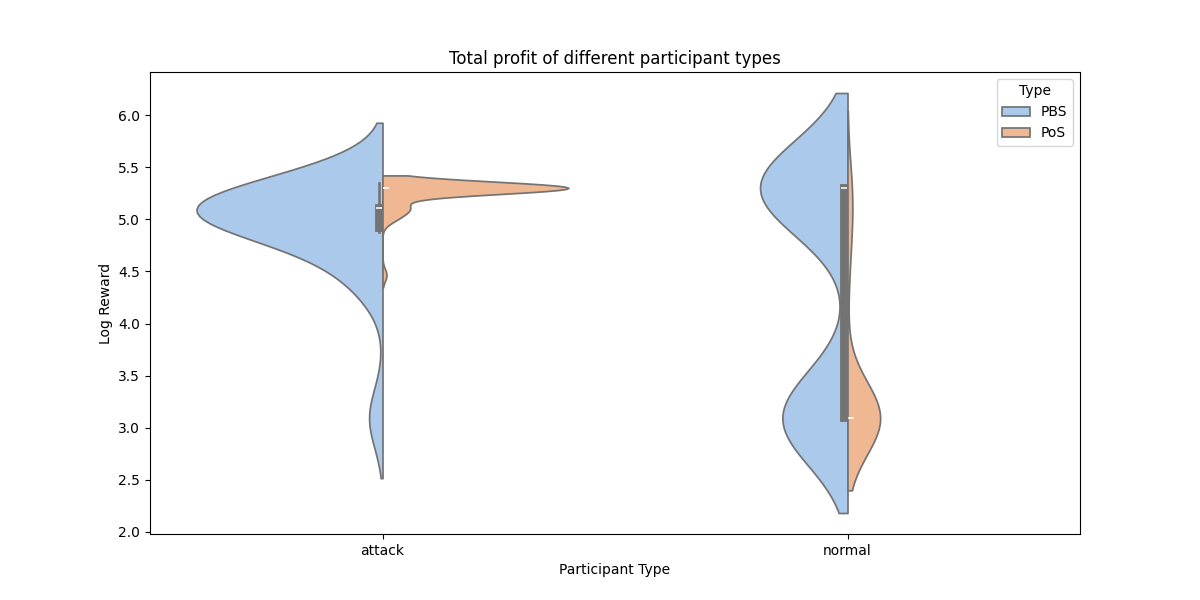
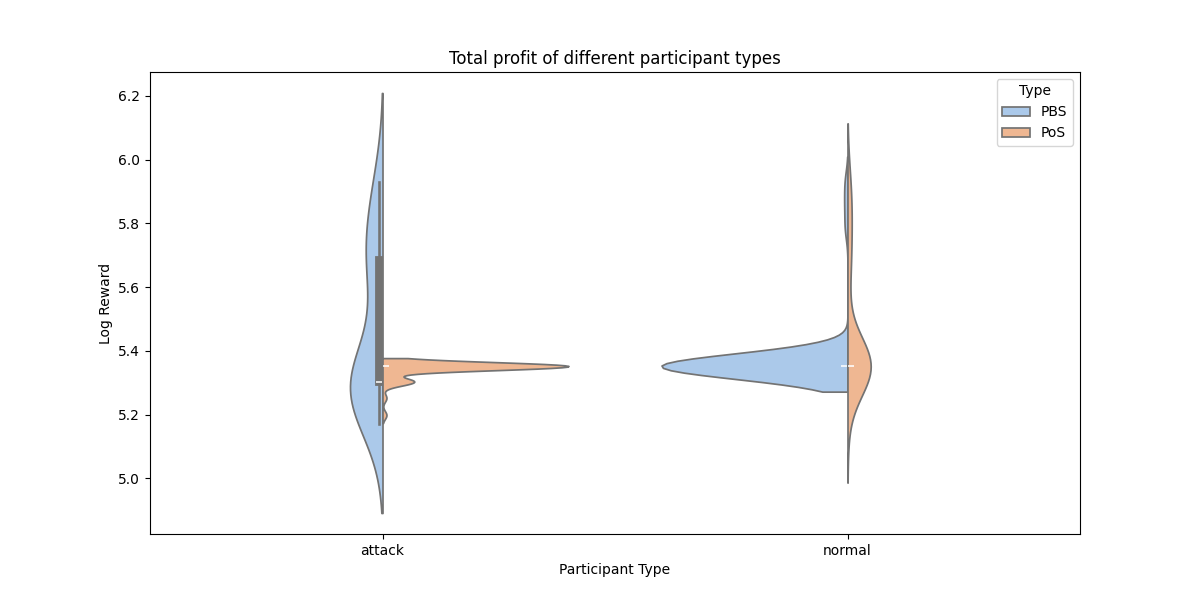
new

diff --git a/scripts/compare.py b/scripts/compare.py
@@ -2,6 +2,8 @@ import random
 import pandas as pd
 import os
 import numpy as np
+import matplotlib.pyplot as plt
+import seaborn as sns
 
 random.seed(42)
 
@@ -87,7 +89,7 @@ class Builder(Participant):
         self.average_bid_percentage = 0.5  # Initial average bid percentage set to 50%
 
     def bid(self, block_bid_his, block_number):
-        block_value = sum(tx.fee + (max(MEV_POTENTIALS) if tx.is_mev else 0) for tx in self.mempool_pbs if not tx.included and tx.block_created <= block_number)
+        block_value = sum(tx.fee + (tx.fee if tx.is_mev else 0) for tx in self.mempool_pbs if not tx.included and tx.block_created <= block_number)
         
         if block_bid_his:
             # Calculate the average bid percentage from the last block bids
@@ -105,28 +107,7 @@ class Builder(Participant):
         return bid
 
     def select_transactions(self, block_number):
-        available_transactions = [tx for tx in self.mempool_pbs if not tx.included and tx.block_created <= block_number]
-        selected_transactions = []
-
-        if self.is_attack:
-            available_transactions.sort(key=lambda x: x.fee, reverse=True)
-            for tx in available_transactions:
-                if len(selected_transactions) >= BLOCK_CAPACITY:
-                    break
-                selected_transactions.append(tx)
-                if tx.is_mev:
-                    if tx.id not in targeting_tracker:
-                        targeting_tracker[tx.id] = True
-                        ba_tx = Transaction(0, False, self.id, targeting=True, target_tx_id=tx.id, block_created=tx.block_created)
-                        selected_transactions.append(ba_tx)
-        else:
-            available_transactions.sort(key=lambda x: x.fee, reverse=True)
-            selected_transactions = available_transactions[:BLOCK_CAPACITY]
-
-        for tx in selected_transactions:
-            tx.included = True
-
-        return selected_transactions
+        return select_transactions_common(self, block_number, self.mempool_pbs)
 
 class Validator(Participant):
     def __init__(self, is_attack):
@@ -136,28 +117,35 @@ class Validator(Participant):
         validator_counter += 1
 
     def select_transactions(self, block_number):
-        available_transactions = [tx for tx in self.mempool_pos if not tx.included and tx.block_created <= block_number]
-        selected_transactions = []
+        return select_transactions_common(self, block_number, self.mempool_pos)
 
-        if self.is_attack:
-            available_transactions.sort(key=lambda x: x.fee, reverse=True)
-            for tx in available_transactions:
-                if len(selected_transactions) >= BLOCK_CAPACITY:
-                    break
-                selected_transactions.append(tx)
-                if tx.is_mev:
-                    if tx.id not in targeting_tracker:
-                        targeting_tracker[tx.id] = True
-                        va_tx = Transaction(0, False, self.id, targeting=True, target_tx_id=tx.id, block_created=tx.block_created)
-                        selected_transactions.append(va_tx)
-        else:
-            available_transactions.sort(key=lambda x: x.fee, reverse=True)
-            selected_transactions = available_transactions[:BLOCK_CAPACITY]
+def select_transactions_common(participant, block_number, mempool):
+    available_transactions = [tx for tx in mempool if not tx.included and tx.block_created <= block_number]
+    selected_transactions = []
 
-        for tx in selected_transactions:
-            tx.included = True
+    if participant.is_attack:
+        available_transactions.sort(key=lambda x: x.fee, reverse=True)
+        targeted_tx_ids = set()  # To keep track of already targeted transactions
+        for tx in available_transactions:
+            if len(selected_transactions) >= BLOCK_CAPACITY:
+                break
+            if tx.id in targeted_tx_ids:
+                continue  # Skip if this transaction has already been targeted
+            selected_transactions.append(tx)
+            if tx.is_mev:
+                if tx.id not in targeting_tracker:
+                    targeting_tracker[tx.id] = True
+                    targeted_tx_ids.add(tx.id)
+                    attack_tx = Transaction(0, False, participant.id, targeting=True, target_tx_id=tx.id, block_created=tx.block_created)
+                    selected_transactions.append(attack_tx)
+    else:
+        available_transactions.sort(key=lambda x: x.fee, reverse=True)
+        selected_transactions = available_transactions[:BLOCK_CAPACITY]
 
-        return selected_transactions
+    for tx in selected_transactions:
+        tx.included = True
+
+    return selected_transactions
 
 def run_pbs(builders, num_blocks):
     cumulative_mev_transactions = [0] * num_blocks
@@ -195,7 +183,7 @@ def run_pbs(builders, num_blocks):
             'block_id': block_num + 1,
             'total_gas': block_value,
             'total_mev_captured': mev_transactions_in_block * max(MEV_POTENTIALS),
-            'block_bid': min(highest_bid, block_value + mev_transactions_in_block * max(MEV_POTENTIALS)),
+            'block_bid': highest_bid,
             'builder_type': 'attack' if winning_builder.is_attack else 'normal'
         })
 
